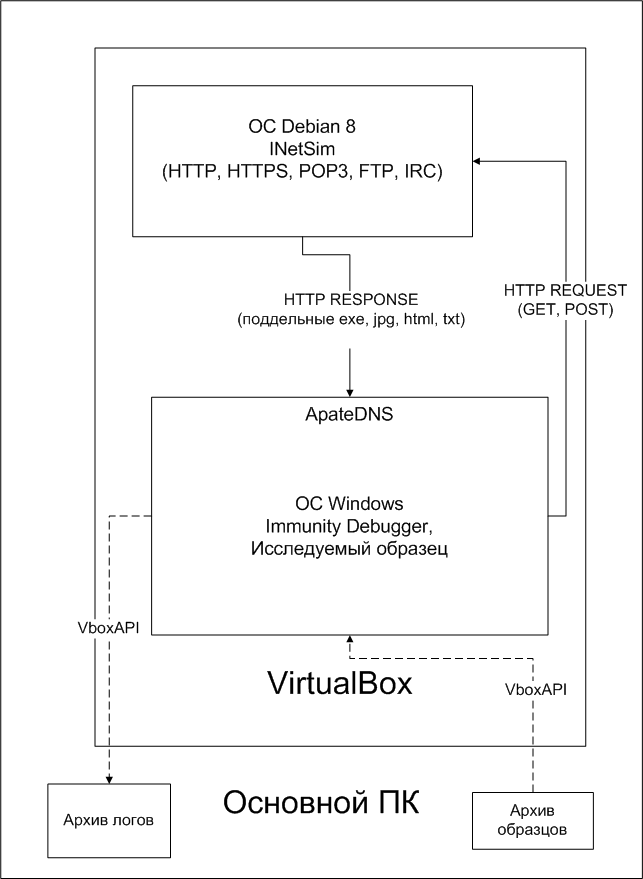
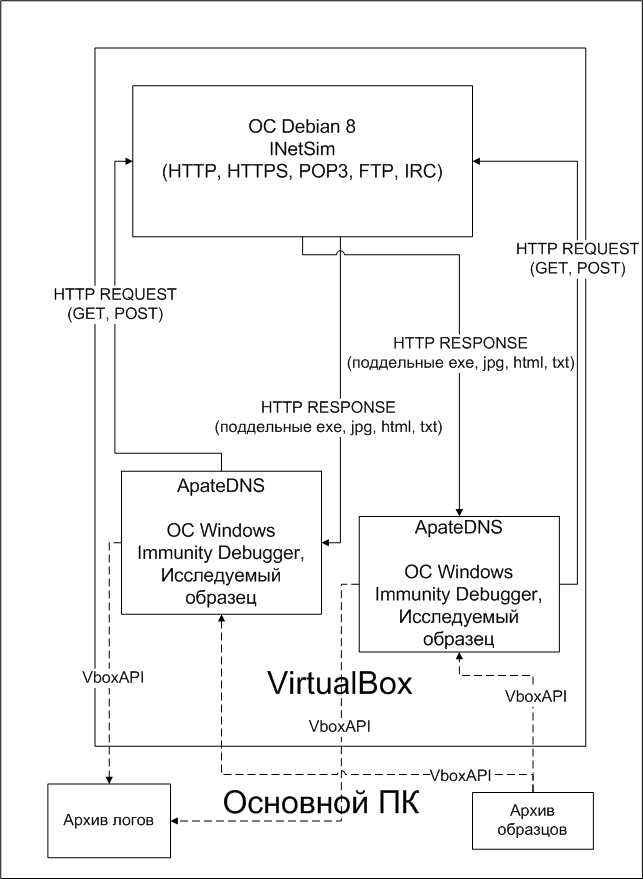
Updated logs collection docs since we are using multiple VMs now; temporarily disabled hyphenation so text doesn't look messed up

diff --git a/docs/chapter3.tex b/docs/chapter3.tex
@@ -24,7 +24,7 @@
 	\item Получение логов
 \end {itemize}
 
-Порядок взаимодействия виртуальных машин и основного ПК приведена на рис. \ref {fig:vmcycle}
+Для ускорения сбора представляется возможным параллельный запуск многих агентов Windows. При этом для каждого из них выполняется указанная последовательность шагов. Фактор ускорения сбора приблизительно равен числу используемых виртуальных машин с Windows. Выделив под основной ПК Intel Xeon e1245v3 (4-core, HyperThreading) и 10 Гб ОЗУ (отдельно для виртуальных машин) удалось добиться комфортной работы параллельно порядка 8--10 агентов Windows. Порядок взаимодействия виртуальных машин при использовании двух агентов Windows и основного ПК приведен на рис. \ref {fig:vmcycle}. При использовании большего числа агентов Windows порядок взаимодействия аналогичен, а ограничения на их число зависит в основном только от используемого аппаратного обеспечения.
 \begin {figure}[h!]
 	\centering
 	\includegraphics[width=\linewidth] {img/vmcycle.png}
@@ -34,7 +34,7 @@
 
 \subsection {Предварительная конфигурация агента}
 \subsubsection {Настройка окружения}
-Здесь большинство действий было выполнено однократно, после чего был создан снапшот состояния с настроенным окружением, готового к запуску. Установлен отладчик Immunity Debugger, изменены его настройки, установлен Python 2.7.1, необходимый для работы отладчика, ApateDNS (утилита, позволяющая перенаправлять все DNS запросы на указанный IP адрес), .Net Framework 4.0, 4.5 (некоторые образцы построены с его использованием и не работают без него), выключен файрвол Windows и служба контроля учётных записей (User account control).
+Здесь большинство действий было выполнено однократно, после чего был создан снапшот состояния с настроенным окружением, готового к запуску. Установлен отладчик Immunity Debugger, изменены его настройки, установлен Python 2.7.1, необходимый для работы отладчика, ApateDNS (утилита, позволяющая перенаправлять все DNS запросы на указанный IP адрес), .Net Framework 4.0, 4.5 (некоторые образцы скомилированы с его использованием и без него запустить их не удастся), выключен файрвол Windows и служба контроля учётных записей (User account control).
 Далее на этом шаге просто происходит возврат в "чистое состояние" исследуемого агента и виртуальной машины с INetSim.
 \subsubsection {Маскировка виртуальной среды}
 Для маскировки исполнения в виртуальной среде были применены следующие модификации виртуальной машины:
@@ -57,7 +57,7 @@
 Данный функционал реализуется в рамках vbox/tools/HideVBox/camouflage.py
 
 \subsection {Загрузка образца}
-Используя vboxapi, реализован скрипт, скачивающий с основного ПК образец и скрипты, управляющие сбором логов.
+VirtualBox предоставляет доступ к управлению различными функциями виртуальных машин через модуль-обёртку на ЯП Python, названную vboxapi. Используя его, реализован скрипт, скачивающий с основного ПК образец и скрипты, управляющие сбором логов.
 \subsection {Запуск отслеживающих инструментов и исполнение образца}
 Поскольку снапшоты восстанавливаются из готового состояния, ApateDNS уже запущена и настроена на сервер INetSim.
 

diff --git a/docs/chapter2.tex b/docs/chapter2.tex
@@ -20,7 +20,7 @@
 	\caption{Функции, отвечающие за удаление файлов}
 	\label{fig:filedelete}
 \end {figure}
-Из схемы следует, что в результате запроса об удалении файла ОС всего лишь помечает атрибуты объекта файла на удаление, а само удаление выполняется другим механизмом. Однако, существуют и другие способы удаления файлов. Например, если файл был создан функцией CreateFile с флагом FILE\_FLAG\ DELETE\_ON\_CLOSE, он будет удалён после закрытия все хэндлов и удаления всех ссылок на него без дополнительных обращений из режима пользователя (это пример техники, используемой вирусами для уничтожения следов после осуществеления вредоносной деятельности в системе).
+Из схемы следует, что в результате запроса об удалении файла ОС всего лишь помечает атрибуты объекта файла на удаление, а само удаление выполняется другим механизмом. Однако, существуют и другие способы удаления файлов. Например, если файл был создан функцией CreateFile с флагом FILE\_FLAG\_DELETE\_ON\_CLOSE, он будет удалён после закрытия все хэндлов и удаления всех ссылок на него без дополнительных обращений из режима пользователя (это пример техники, используемой вирусами для уничтожения следов после осуществеления вредоносной деятельности в системе).
 \subparagraph {Создание процессов}
 Для создания процессов есть множество различных путей, в том числе, и за рамками приводимых API функций, и нельзя полагаться, что любой создаваемый процесс будет обнаружен, если следить только за ними
 \begin {figure}[h]

diff --git a/docs/main.tex b/docs/main.tex
@@ -26,6 +26,11 @@
 \date {2016-01-01}
 \author {by myself!}
 
+\tolerance=1
+\emergencystretch=\maxdimen
+\hyphenpenalty=10000
+\hbadness=10000
+
 \begin {document}
 	\pagenumbering {gobble}
 	\maketitle
